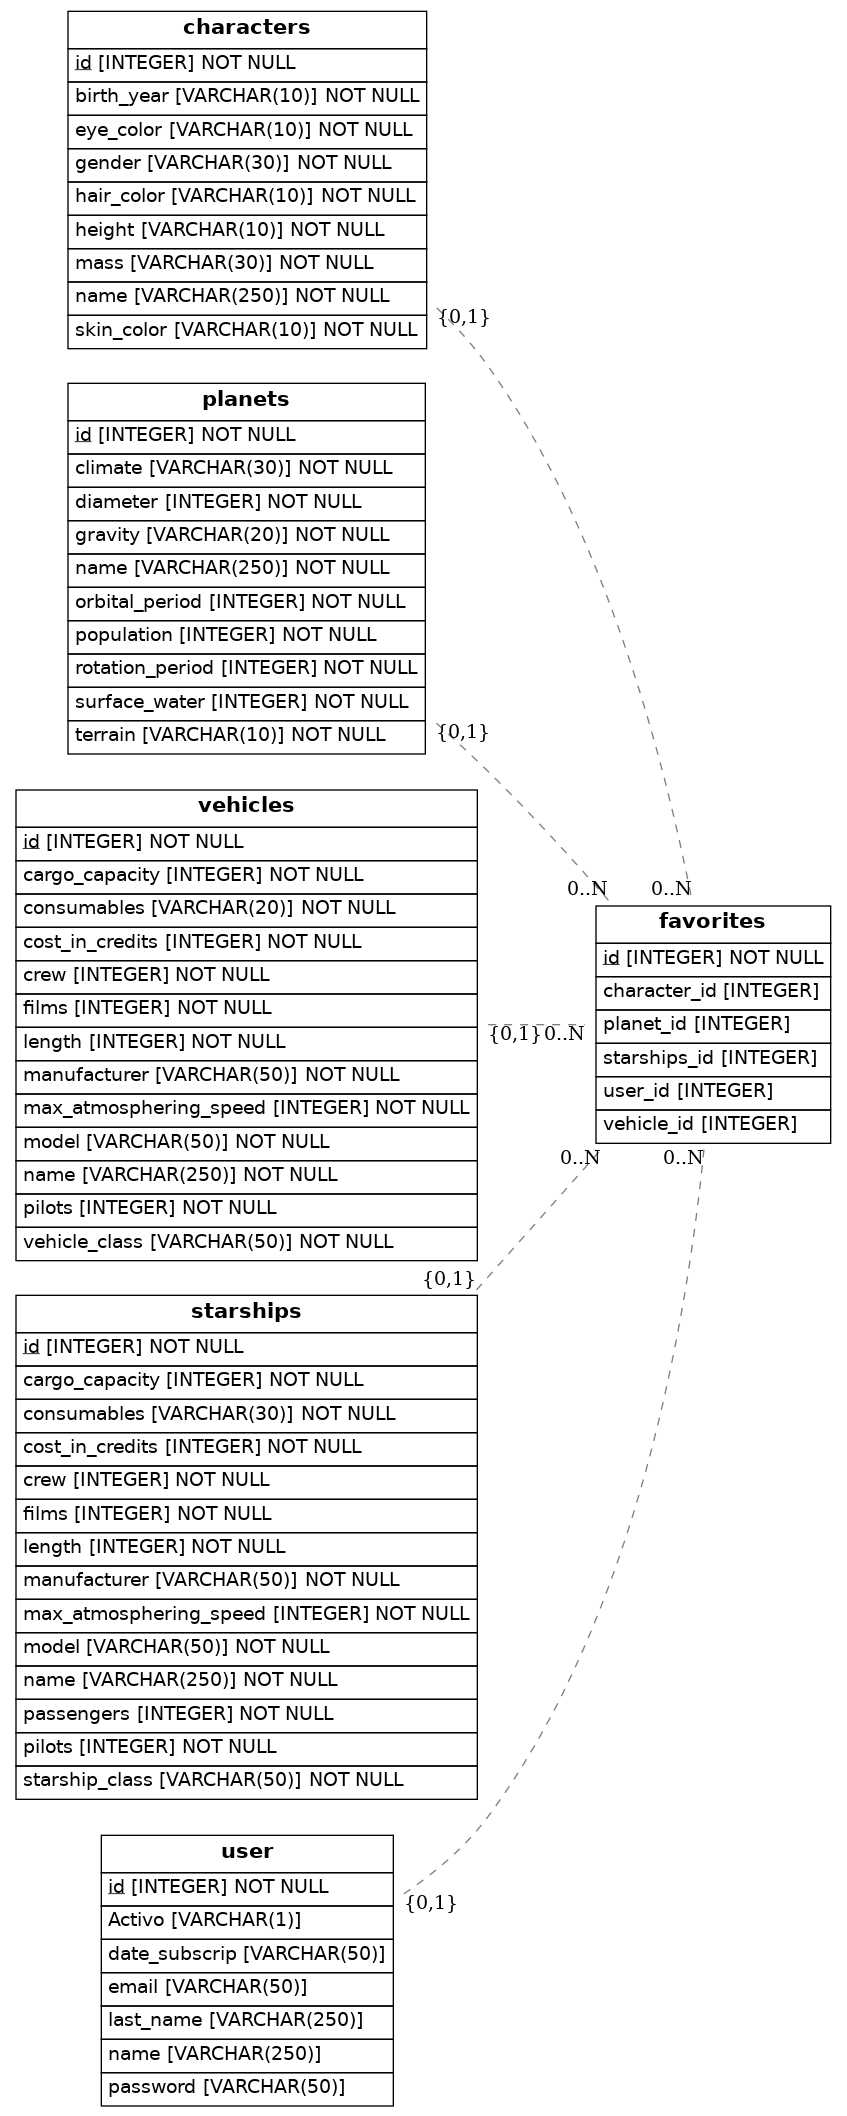
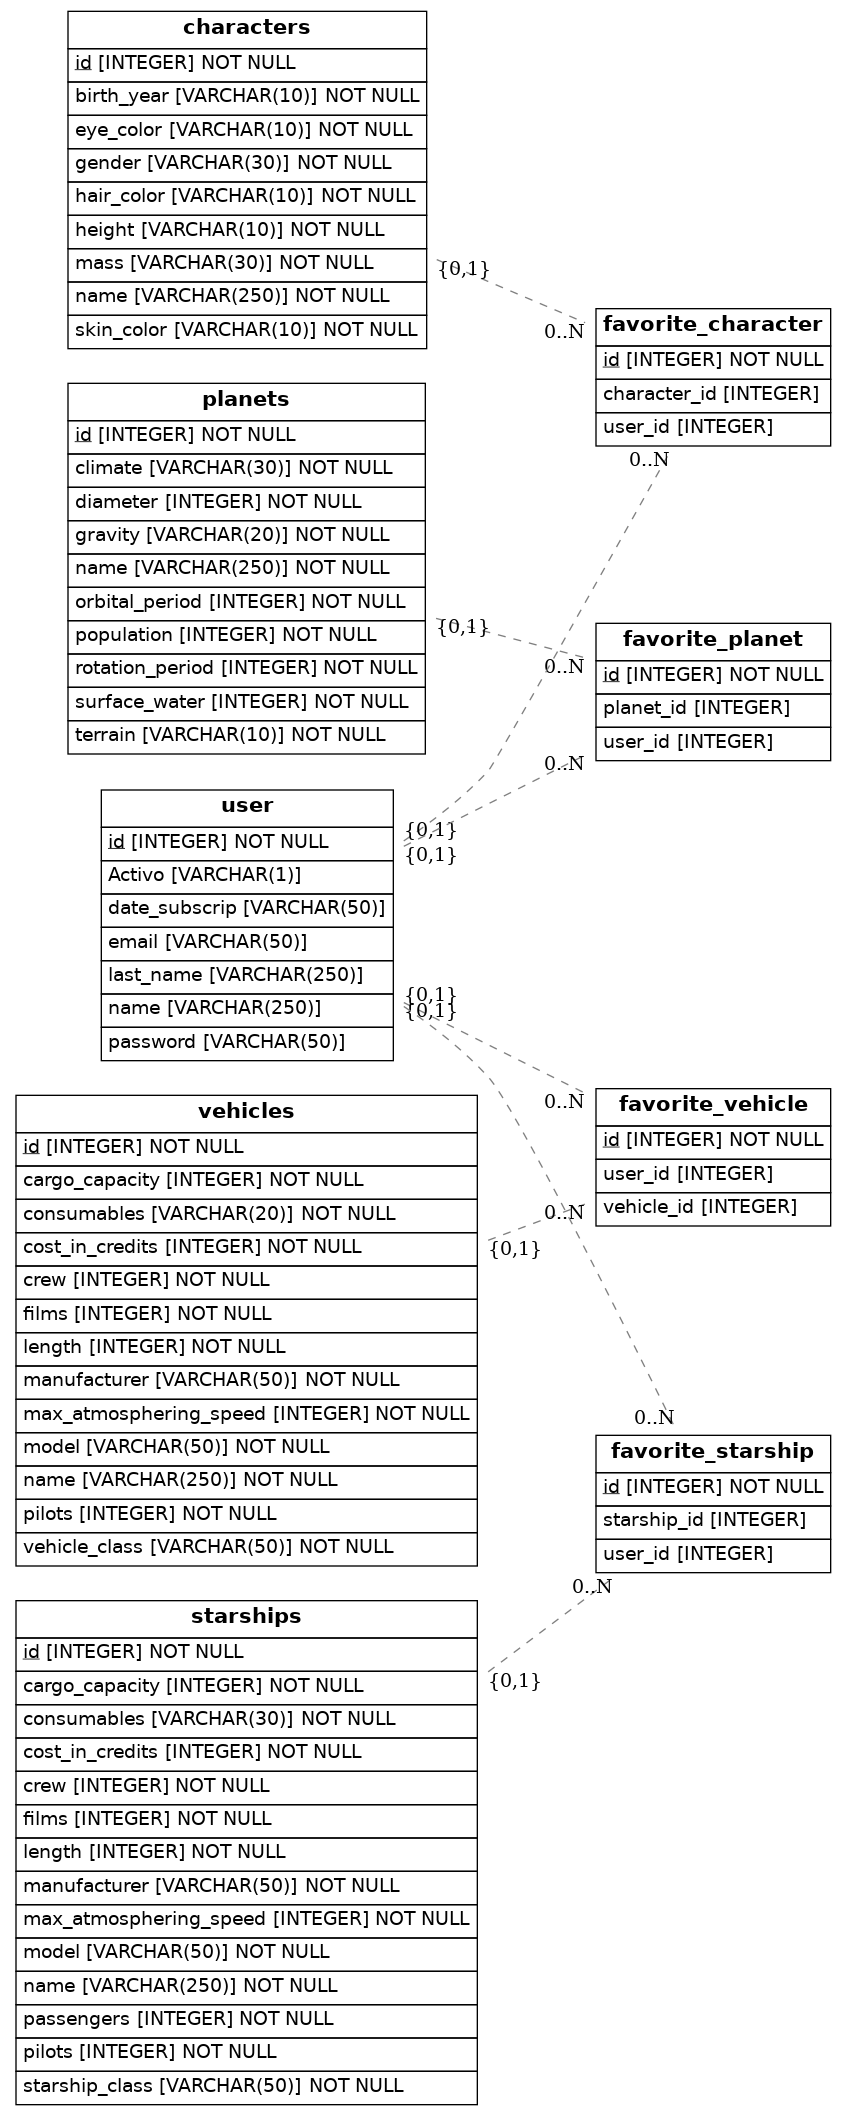
m

diff --git a/src/models.py b/src/models.py
@@ -77,23 +77,38 @@ class User(Base):
     Activo        = Column(String(1))
     
 
-class Favorites(Base):
-    __tablename__ = 'favorites'
-    id            = Column(Integer, primary_key=True)
-    character_id  = Column(Integer, ForeignKey('characters.id'))
-    vehicle_id   = Column(Integer, ForeignKey('vehicles.id'))
-    planet_id    = Column(Integer, ForeignKey('planets.id'))
-    user_id    = Column(Integer, ForeignKey('user.id'))
-    starships_id  = Column(Integer, ForeignKey('starships.id'))
-    user       = relationship(User)
-    character        = relationship(Characters)
-    vehicle          = relationship(Vehicles)
-    planet         = relationship(Planets)
-    star          = relationship(Starships)
+class FavoriteCharacter(Base):
+    __tablename__ = 'favorite_character'
+    id = Column(Integer, primary_key=True)
+    character_id = Column(Integer, ForeignKey('characters.id'))
+    user_id = Column(Integer, ForeignKey('user.id'))
+    character = relationship(Characters)
+    user = relationship(User)
 
+class FavoritePlanet(Base):
+    __tablename__ = 'favorite_planet'
+    id = Column(Integer, primary_key=True)
+    planet_id = Column(Integer, ForeignKey('planets.id'))
+    user_id = Column(Integer, ForeignKey('user.id'))
+    planet = relationship(Planets)
+    user = relationship(User)
 
+class FavoriteVehicle(Base):
+    __tablename__ = 'favorite_vehicle'
+    id = Column(Integer, primary_key=True)
+    vehicle_id = Column(Integer, ForeignKey('vehicles.id'))
+    user_id = Column(Integer, ForeignKey('user.id'))
+    vehicle = relationship(Vehicles)
+    user = relationship(User)
+
+class FavoriteStarship(Base):
+    __tablename__ = 'favorite_starship'
+    id = Column(Integer, primary_key=True)
+    starship_id = Column(Integer, ForeignKey('starships.id'))
+    user_id = Column(Integer, ForeignKey('user.id'))
+    starship = relationship(Starships)
+    user = relationship(User)
   
-
     def to_dict(self):
         return {}
     
